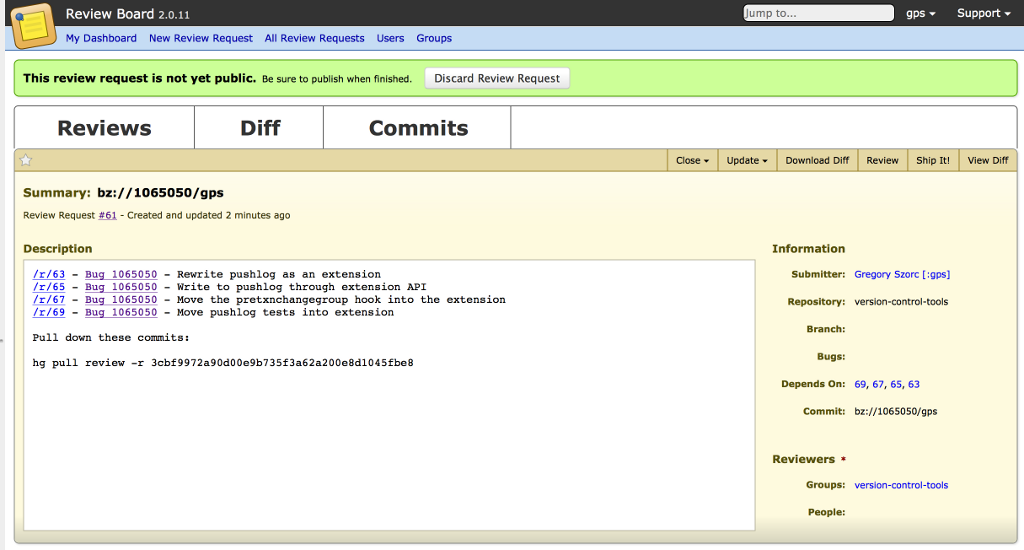
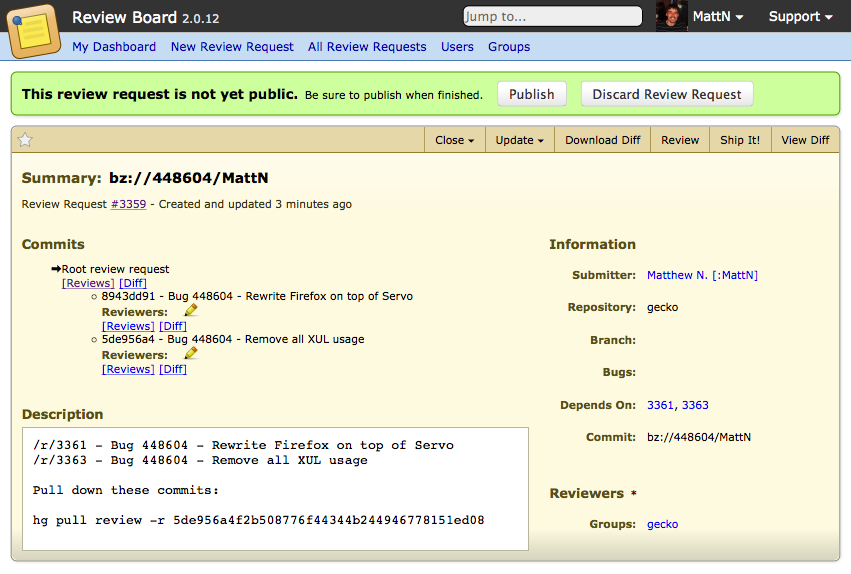
docs: Update "Publishing Commits" section to reflect the new UI. (bug 1064111)

diff --git a/docs/mozreview/reviewboard.rst b/docs/mozreview/reviewboard.rst
@@ -34,7 +34,7 @@ review request series
    group
 parent review request
    For review request series, the review request that tracks the
-   overall state of the series
+   overall state of the series. This is also known as the root review request.
 draft
    Refers to a state review requests or reviews can be in where content
    is not publicly visible and is only available to the person who created
@@ -58,32 +58,27 @@ When you push commits to the review repository, review requests are
 created in Review Board. As a refresher::
 
   $ hg push review
-  pushing to ssh://reviewboard-hg.mozilla.org/version-control-tools
+  pushing to ssh://reviewboard-hg.mozilla.org/gecko
   searching for changes
   remote: adding changesets
   remote: adding manifests
   remote: adding file changes
-  remote: added 4 changesets with 8 changes to 4 files (+1 heads)
-  submitting 4 changesets for review
+  remote: added 2 changesets with 2 changes to 2 files (+1 heads)
+  remote: Trying to insert into pushlog.
+  remote: Please do not interrupt...
+  remote: Inserted into the pushlog db successfully.
+  submitting 2 changesets for review
 
-  changeset:  4615:04d7e5fb8b05
-  summary:    Bug 1065050 - Rewrite pushlog as an extension
-  review:     https://reviewboard.mozilla.org/r/63 (pending)
+  changeset:  227233:8943dd91f4c0
+  summary:    Bug 448604 - Rewrite Firefox on top of Servo
+  review:     https://reviewboard.mozilla.org/r/3361 (pending)
 
-  changeset:  4616:64703e0880a5
-  summary:    Bug 1065050 - Write to pushlog through extension API
-  review:     https://reviewboard.mozilla.org/r/65 (pending)
+  changeset:  227234:5de956a4f2b5
+  summary:    Bug 448604 - Remove all XUL usage
+  review:     https://reviewboard.mozilla.org/r/3363 (pending)
 
-  changeset:  4617:c1481072c248
-  summary:    Bug 1065050 - Move the pretxnchangegroup hook into the extension
-  review:     https://reviewboard.mozilla.org/r/67 (pending)
-
-  changeset:  4618:3cbf9972a90d
-  summary:    Bug 1065050 - Move pushlog tests into extension
-  review:     https://reviewboard.mozilla.org/r/69 (pending)
-
-  review id:  bz://1065050/gps
-  review url: https://reviewboard.mozilla.org/r/61 (pending)
+  review id:  bz://448604/MattN
+  review url: https://reviewboard.mozilla.org/r/3359 (pending)
   (visit review url to publish this review request so others can see it)
 
 The *pending* in the output says that the review requests are in an
@@ -95,8 +90,8 @@ the *review url*. You should see a page like the following:
 
 .. image:: parent-unpublished.png
 
-This is the parent review request. It is a special review request that
-manages the state of all the *children* review requests.
+This is the parent (aka. root) review request. It is a special review request
+that manages the state of all the *children* review requests.
 
 The metadata on the parent review request is derived from the content of
 commits you've pushed for review. You can see a list of commits and
@@ -109,20 +104,13 @@ their summary lines that are part of the review.
    to eliminate the parent review request for reviews only consisting of
    a single commit.
 
-To publish the collection of review requests, you'll want to click on
-the **Commits** tab near the top right. When that page loads, it looks
-something like the following:
+To publish the collection of review requests, you'll want to assign reviewers.
 
-.. image:: commits.png
+Each commit has **Reviewers** line that shows the reviewer(s) for the commit.
 
-You will see a listing of every commit in the review along with basic
-metadata about that commit.
-
-Each commit has an input box assigned to it. This input box is used to
-select the reviewer for the commit.
-
-Typing into the input box will display results from Bugzilla's and
-Review Board's shared user database. Here is what that looks like:
+To edit reviewers, click the pencil icon to display an input box. Typing into
+the input box will display results from Bugzilla's and Review Board's shared
+user database. Here is what that looks like:
 
 .. image:: select-reviewer.png
 
@@ -131,26 +119,18 @@ Review Board's shared user database. Here is what that looks like:
    The easiest way to find a reviewer is by IRC nickname. You should
    not need to type the leading colon that exists in Bugzilla.
 
-After you've selected a reviewer for each commit, your **Commits** tab
+Once you've selected the reviewers for a commit, click **OK** to stop editing
+the field.
+
+After you've selected a reviewer for each commit, your parent review request
 will look something like the following:
 
 .. image:: publish.png
 
-At this time, you'll want to click the giant **Publish** button in the
-bottom right. This will start the process of publishing the reviews in
+At this time, you'll want to click the **Publish** button on the green
+notification bar. This will start the process of publishing the reviews in
 Review Board and updating Bugzilla to reflect that a review is
 requested.
-
-.. warning::
-
-   The MozReview maintainers don't like the current implementation of
-   the **Commits** tab. We know the interface isn't intuitive. It is
-   implemented the way it is because that was easiest.
-
-   There are
-   `plans <https://bugzilla.mozilla.org/show_bug.cgi?id=1064111>`_
-   to improve the UX situation. If you have web design skills, we
-   love patches.
 
 Reviewing Code
 ==============
